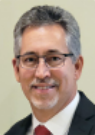
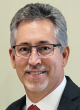
About: Experience/Review statements, Image component

diff --git a/react vite/next-level-builders/src/features/About/Statement-Experience.jsx b/react vite/next-level-builders/src/features/About/Statement-Experience.jsx
@@ -2,6 +2,7 @@ import Card from "../../ui/Card";
 import Header from "../../ui/Header";
 import Box from "../../ui/Box";
 import Text from "../../ui/Text";
+import Image from "../../ui/Image";
 
 function ExperienceStatement() {
   return (
@@ -10,12 +11,20 @@ function ExperienceStatement() {
         <Header as="h2" color="var(--color-blue-400)">
           Next Level Builders Experience
         </Header>
-        <img
+        <Image
           alt="Blue Valley Dermatology Logo"
-          src="/blue_valley_dermatology_logo.jpg"
+          src="/blue_valley_dermatology_logo.png"
         />
-        <Text>Blue Valley Dermatology</Text>
-        <Text>Blue Valley Dermatology Phase 2</Text>
+        <Text fontWeight="700" color="var(--color-grey-500)">
+          Blue Valley Dermatology
+        </Text>
+        <span>Lenexa, KS</span>
+        <span>3,500 SF Tenant Remodel</span>
+        <Text fontWeight="700" color="var(--color-grey-500)">
+          Blue Valley Dermatology Phase 2
+        </Text>
+        <span>Overland Park</span>
+        <span>5,000 SF Tenant Remodel</span>
       </Box>
     </Card>
   );

diff --git a/react vite/next-level-builders/src/features/About/Statement-Review.jsx b/react vite/next-level-builders/src/features/About/Statement-Review.jsx
@@ -1,0 +1,24 @@
+import Box from "../../ui/Box";
+import Card from "../../ui/Card";
+import Text from "../../ui/Text";
+
+function ReviewStatement() {
+  return (
+    <Card bgcolor="var(--color-blue-300)">
+      <Box>
+        <Text color="var(--color-tan-100)" fontstyle="italic">
+          "What sets Craig apart is his willingness to dive into the details to
+          make each project the best it can be."
+        </Text>
+        <Text color="var(--color-tan-100)" fontWeight="600">
+          Tom Tkachuk
+        </Text>
+        <Text color="var(--color-tan-100)">
+          CEO & Property Manager Blue Valley Dermatology & BVD Properties
+        </Text>
+      </Box>
+    </Card>
+  );
+}
+
+export default ReviewStatement;

diff --git a/react vite/next-level-builders/src/features/About/Statement-Owner.jsx b/react vite/next-level-builders/src/features/About/Statement-Owner.jsx
@@ -2,15 +2,17 @@ import Card from "../../ui/Card";
 import Box from "../../ui/Box";
 import Header from "../../ui/Header";
 import Text from "../../ui/Text";
+import Image from "../../ui/Image";
 
 function OwnerStatement() {
   return (
     <Card bgcolor="var(--color-tan-100)">
       <Box placement="center" stack="horizontal" gap="10px">
-        <img
+        <Image
           alt="Craig Ritchie Profile Picture"
           src="/profilepicture.png"
-        ></img>
+          borderradius="25px"
+        />
         <Header color="var(--color-blue-400)" as="h3">
           Craig Ritchie, Owner, Next Level Builders LLC
         </Header>

diff --git a/react vite/next-level-builders/src/pages/About.jsx b/react vite/next-level-builders/src/pages/About.jsx
@@ -1,11 +1,13 @@
 import OwnerStatement from "../features/About/Statement-Owner";
 import ExperienceStatement from "../features/About/Statement-Experience";
+import ReviewStatement from "../features/About/Statement-Review";
 
 function About() {
   return (
     <>
       <OwnerStatement />
       <ExperienceStatement />
+      <ReviewStatement />
     </>
   );
 }

diff --git a/react vite/next-level-builders/src/ui/Image.jsx b/react vite/next-level-builders/src/ui/Image.jsx
@@ -1,0 +1,14 @@
+import styled from "styled-components";
+
+const StyledImage = styled.img`
+  width: ${(props) => props.width};
+  height: auto;
+  padding: 10px;
+  border-radius: ${(props) => props.borderradius};
+`;
+
+function Image({ ...rest }) {
+  return <StyledImage {...rest}></StyledImage>;
+}
+
+export default Image;

diff --git a/react vite/next-level-builders/src/ui/Text.jsx b/react vite/next-level-builders/src/ui/Text.jsx
@@ -12,6 +12,7 @@ const StyledText = styled.p`
   color: ${(props) => props.color};
   font-weight: ${(props) => props.fontWeight};
   text-transform: ${({ textcase }) => caseMap[textcase]};
+  font-style: ${(props) => props.fontstyle};
 `;
 
 function Text({ children, ...rest }) {
